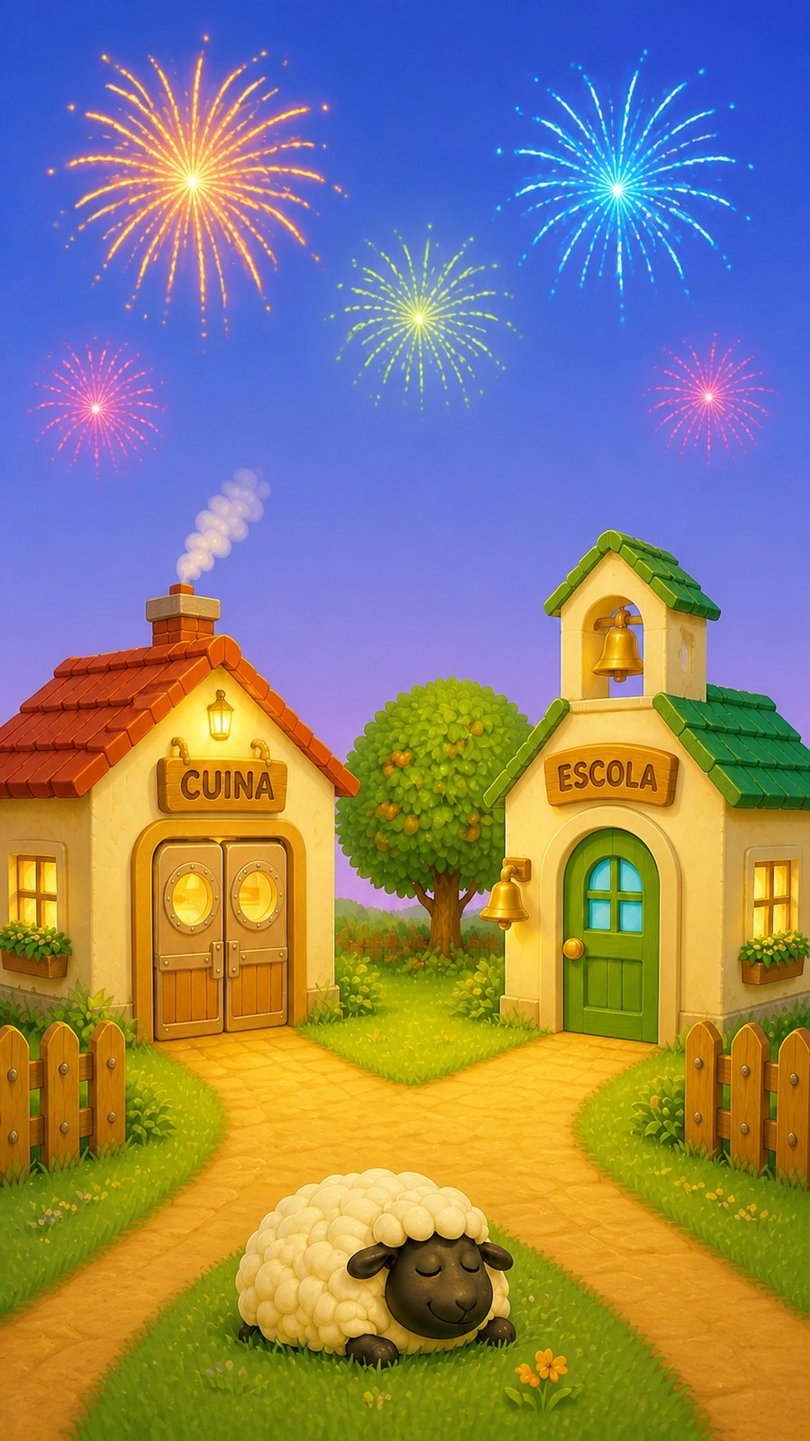
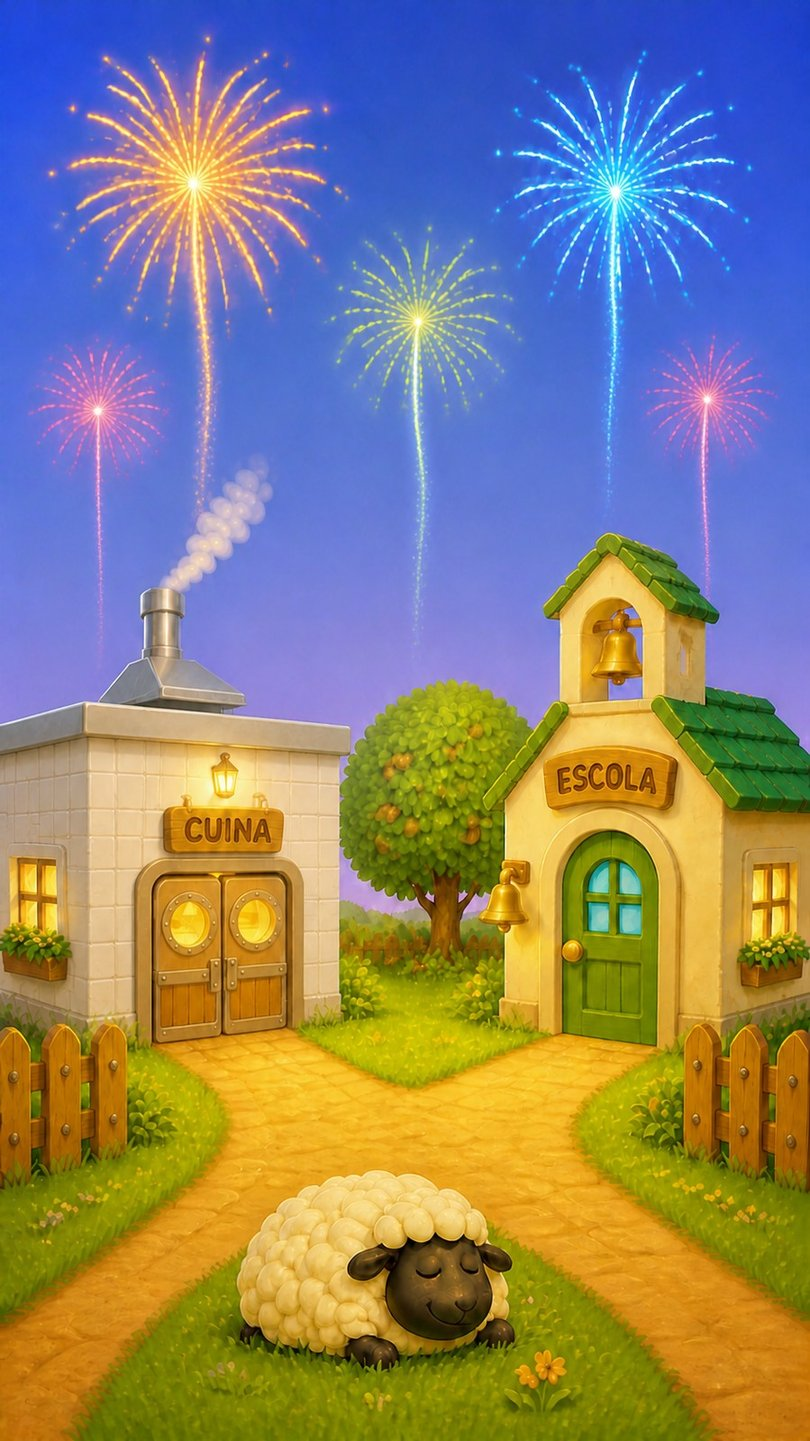
nova: celebració sense requadres, cuina de rajola blanca i sostre pla, coets amb estela
Claude-Session: https://claude.ai/code/session_01U8Mmhj3w1kDHbZEJg4YuWh

diff --git a/nova/index.html b/nova/index.html
@@ -169,17 +169,18 @@ textarea.rbta{font:inherit;font-size:16px;min-height:110px;padding:12px 14px;res
 .agm{max-height:none;overflow:visible;margin-top:4px;gap:0 6px}.agm .at2{height:88px}.agm .at2 .pi{width:58px;height:58px}
 .at2.mes{color:#2f6b1f}
 .celx{position:absolute;inset:0;overflow:hidden;background:#5b62d6;z-index:2}.celimg{position:absolute;top:0;bottom:0;left:50%;transform:translateX(-50%);aspect-ratio:899/1600;height:100%}.celimg>img{width:100%;height:100%;display:block}
-.celhot{position:absolute;background:none;border:0;padding:0;min-height:0;height:auto;box-shadow:none;border-radius:28px;animation:hotp 2.2s ease-in-out infinite}.celhot+.celhot{animation-delay:1.1s}@keyframes hotp{0%,100%{box-shadow:0 0 0 0 rgba(255,226,120,0)}50%{box-shadow:0 0 0 3px rgba(255,255,255,.75),0 0 22px 6px rgba(255,214,90,.7)}}
+.celhot{position:absolute;background:none;border:0;padding:0;min-height:0;height:auto;box-shadow:none;border-radius:28px}@keyframes hotp{0%,100%{box-shadow:0 0 0 0 rgba(255,226,120,0)}50%{box-shadow:0 0 0 3px rgba(255,255,255,.75),0 0 22px 6px rgba(255,214,90,.7)}}
 .celtt{position:absolute;left:0;right:0;top:calc(46px + env(safe-area-inset-top,0px));text-align:center;color:#fff;pointer-events:none}.celtt h1{font:700 46px var(--disp);margin:0;text-shadow:0 3px 12px rgba(0,0,0,.45)}.celtt p{margin:2px 0 0;font-size:19px;font-weight:600;text-shadow:0 2px 8px rgba(0,0,0,.5)}
-@media (prefers-reduced-motion:reduce){.celhot{animation:none;box-shadow:0 0 0 3px rgba(255,255,255,.75)}}
 .cel .welsky{position:relative}.cel .welsky{height:min(380px,46vh)!important}.cel .welart img{object-position:20% 50%}.cel .welsky::after{height:28px}.cel .welbody{margin-top:6px}.cel .welbody h1{font-size:40px}
 .celc{display:grid;grid-template-columns:1fr 1fr;gap:12px;width:100%;margin-top:14px;align-items:end;justify-items:center}
 .celb{display:flex;flex-direction:column;align-items:center;gap:4px;background:none;border:0;padding:6px 4px;box-shadow:none;height:auto;min-height:0}
 .celb img{height:min(230px,30vh);width:auto;max-width:100%;display:block;filter:drop-shadow(0 6px 8px rgba(80,60,20,.18))}.celb b{font:700 21px var(--disp)}.celb small{color:var(--mut);font-size:14.5px;font-weight:600}
 
-.fw{position:absolute;width:6px;height:6px;border-radius:50%;z-index:2;pointer-events:none;opacity:0;animation:fw 2.4s ease-out infinite}
-.fw.f0{left:22%;top:26%;color:#ffd34d}.fw.f1{left:72%;top:18%;color:#ff6b6b;animation-delay:.5s}.fw.f2{left:50%;top:12%;color:#7ee0ff;animation-delay:1s}.fw.f3{left:86%;top:38%;color:#9cff7a;animation-delay:1.5s}.fw.f4{left:10%;top:12%;color:#ff9be0;animation-delay:1.9s}
-@keyframes fw{0%{opacity:1;box-shadow:0 0 0 0 currentColor}60%{opacity:1}100%{opacity:0;box-shadow:0 -34px 0 -1px currentColor,24px -24px 0 -1px currentColor,34px 0 0 -1px currentColor,24px 24px 0 -1px currentColor,0 34px 0 -1px currentColor,-24px 24px 0 -1px currentColor,-34px 0 0 -1px currentColor,-24px -24px 0 -1px currentColor}}
+.fw{position:absolute;width:6px;height:6px;border-radius:50%;z-index:2;pointer-events:none;opacity:0;background:currentColor;animation:fwr 3s ease-out infinite}
+.fw::before{content:"";position:absolute;left:2px;top:6px;width:2px;height:70px;border-radius:2px;background:linear-gradient(currentColor,rgba(255,240,200,.35) 40%,transparent);opacity:0;animation:fwt 3s ease-out infinite;animation-delay:inherit}
+.fw.f0{left:22%;top:16%;color:#ffd34d}.fw.f1{left:74%;top:12%;color:#ff8a8a;animation-delay:.6s}.fw.f2{left:50%;top:24%;color:#7ee0ff;animation-delay:1.2s}.fw.f3{left:86%;top:28%;color:#9cff7a;animation-delay:1.8s}.fw.f4{left:10%;top:30%;color:#ff9be0;animation-delay:2.4s}
+@keyframes fwr{0%{opacity:1;transform:translateY(240px);box-shadow:none}38%{opacity:1;transform:translateY(0);box-shadow:0 0 0 0 currentColor}40%{background:transparent}100%{opacity:0;transform:translateY(0);background:transparent;box-shadow:0 -40px 0 -1px currentColor,28px -28px 0 -1px currentColor,40px 0 0 -1px currentColor,28px 28px 0 -1px currentColor,0 40px 0 -1px currentColor,-28px 28px 0 -1px currentColor,-40px 0 0 -1px currentColor,-28px -28px 0 -1px currentColor}}
+@keyframes fwt{0%{opacity:.9}36%{opacity:.9}42%,100%{opacity:0}}
 @media (prefers-reduced-motion:reduce){.fw{display:none}}
 .at2.lv2{color:#c46a06}.at2.lv1{color:#9a7600}
 .at2.lv2::after,.at2.lv1::after{content:"";position:absolute;top:50%;left:50%;width:74px;height:74px;margin:-48px 0 0 -37px;border-radius:50%;border:6px solid rgba(240,138,28,.95);box-sizing:border-box}
